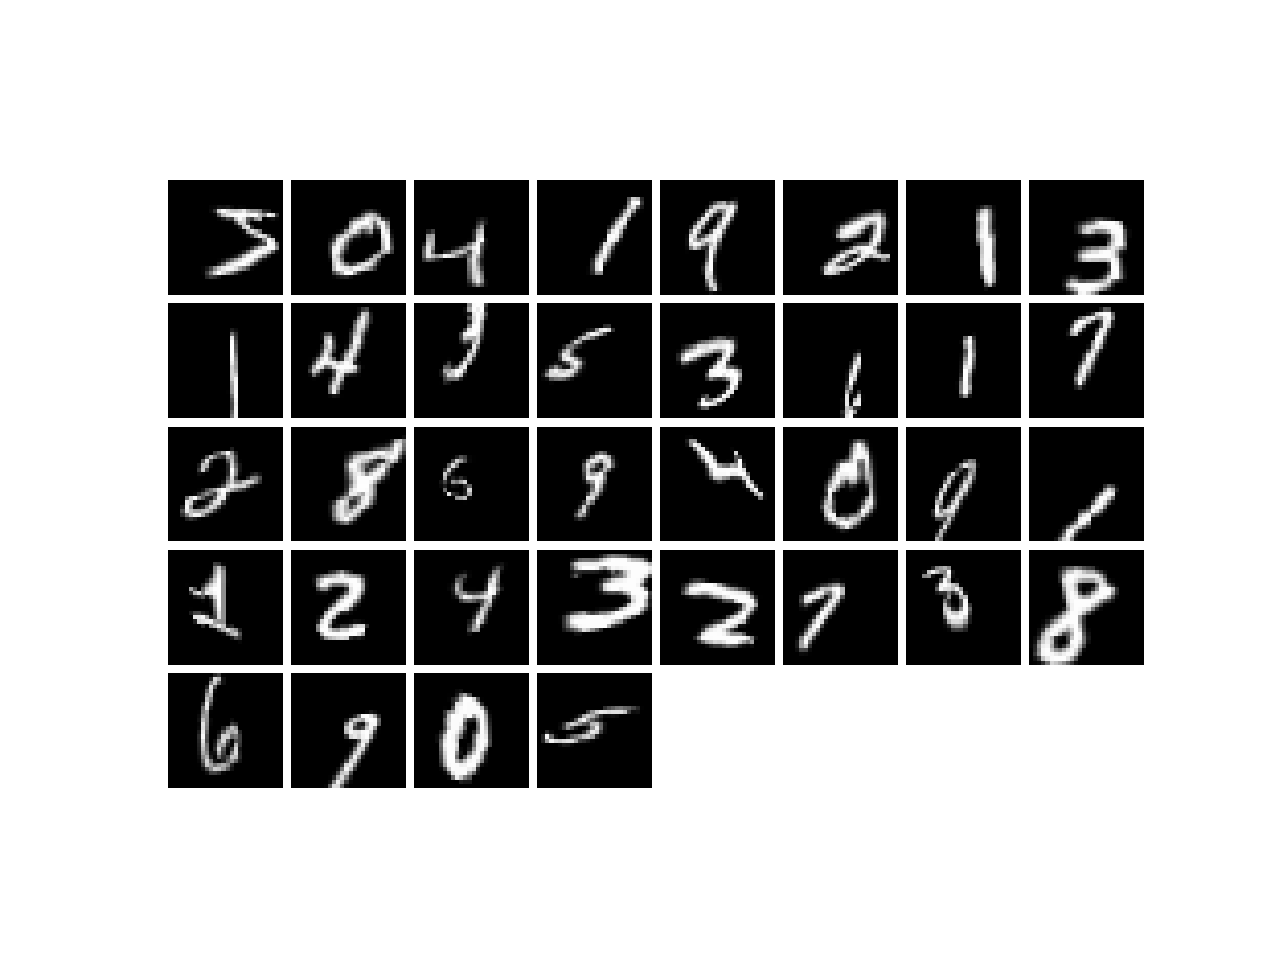
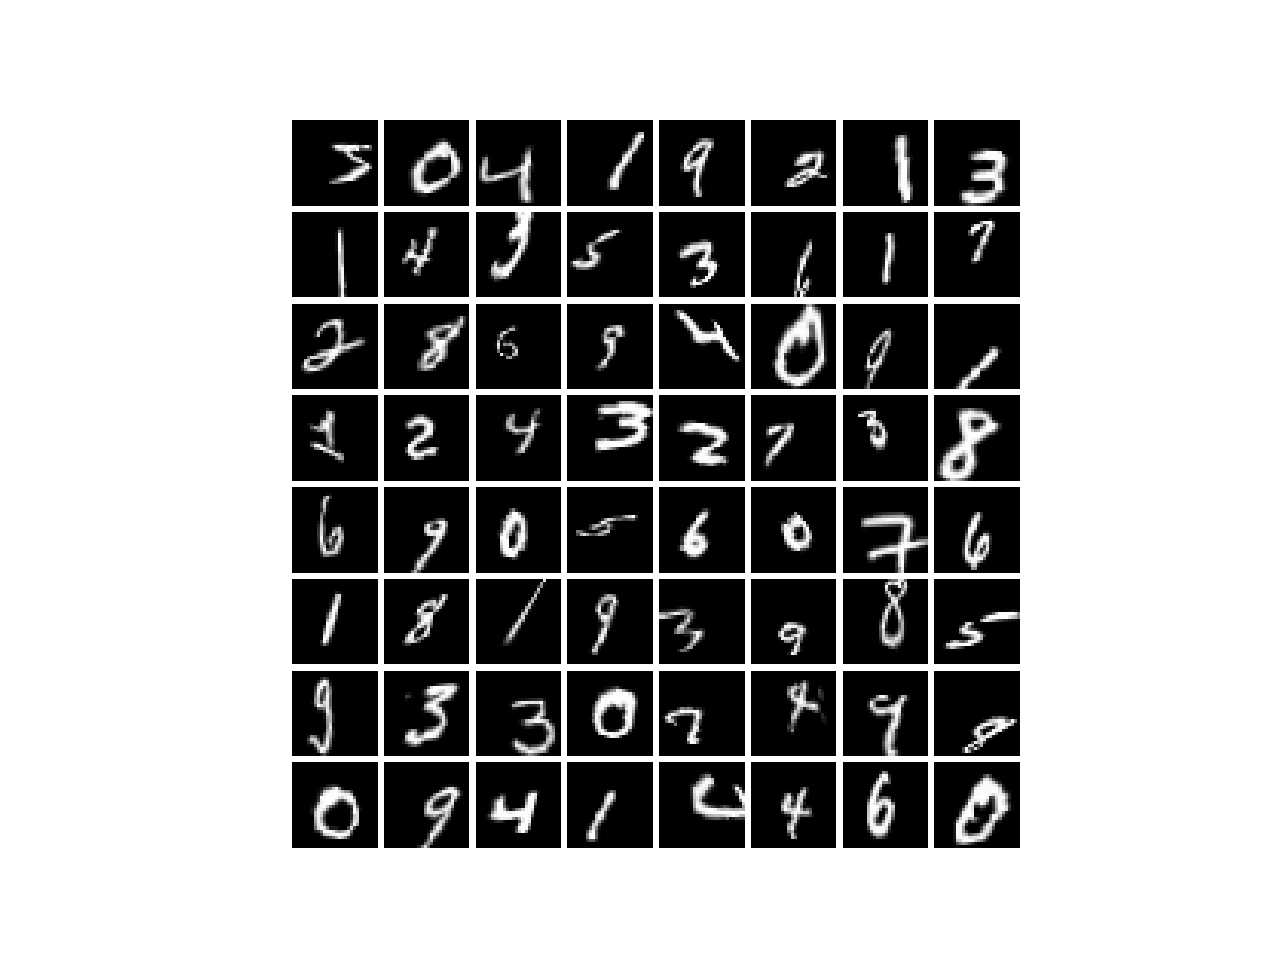
commit

diff --git a/datasets.py b/datasets.py
@@ -142,7 +142,7 @@ if __name__ == "__main__":
 
     # try to show transformed images
     dataset = DistortedMNIST(mode='train', transform_type='E', val_split=0.3)
-    dataloader = DataLoader(dataset, batch_size=36)
+    dataloader = DataLoader(dataset, batch_size=64)
 
     for imgs, labels in dataloader:
         print('images:', imgs.size())
@@ -152,7 +152,7 @@ if __name__ == "__main__":
         break
 
     dataset = MNISTAddition(mode='train', val_split=0.3)
-    dataloader = DataLoader(dataset, batch_size=36)
+    dataloader = DataLoader(dataset, batch_size=64)
 
     for imgs, labels in dataloader:
         print('images:', imgs.size())
